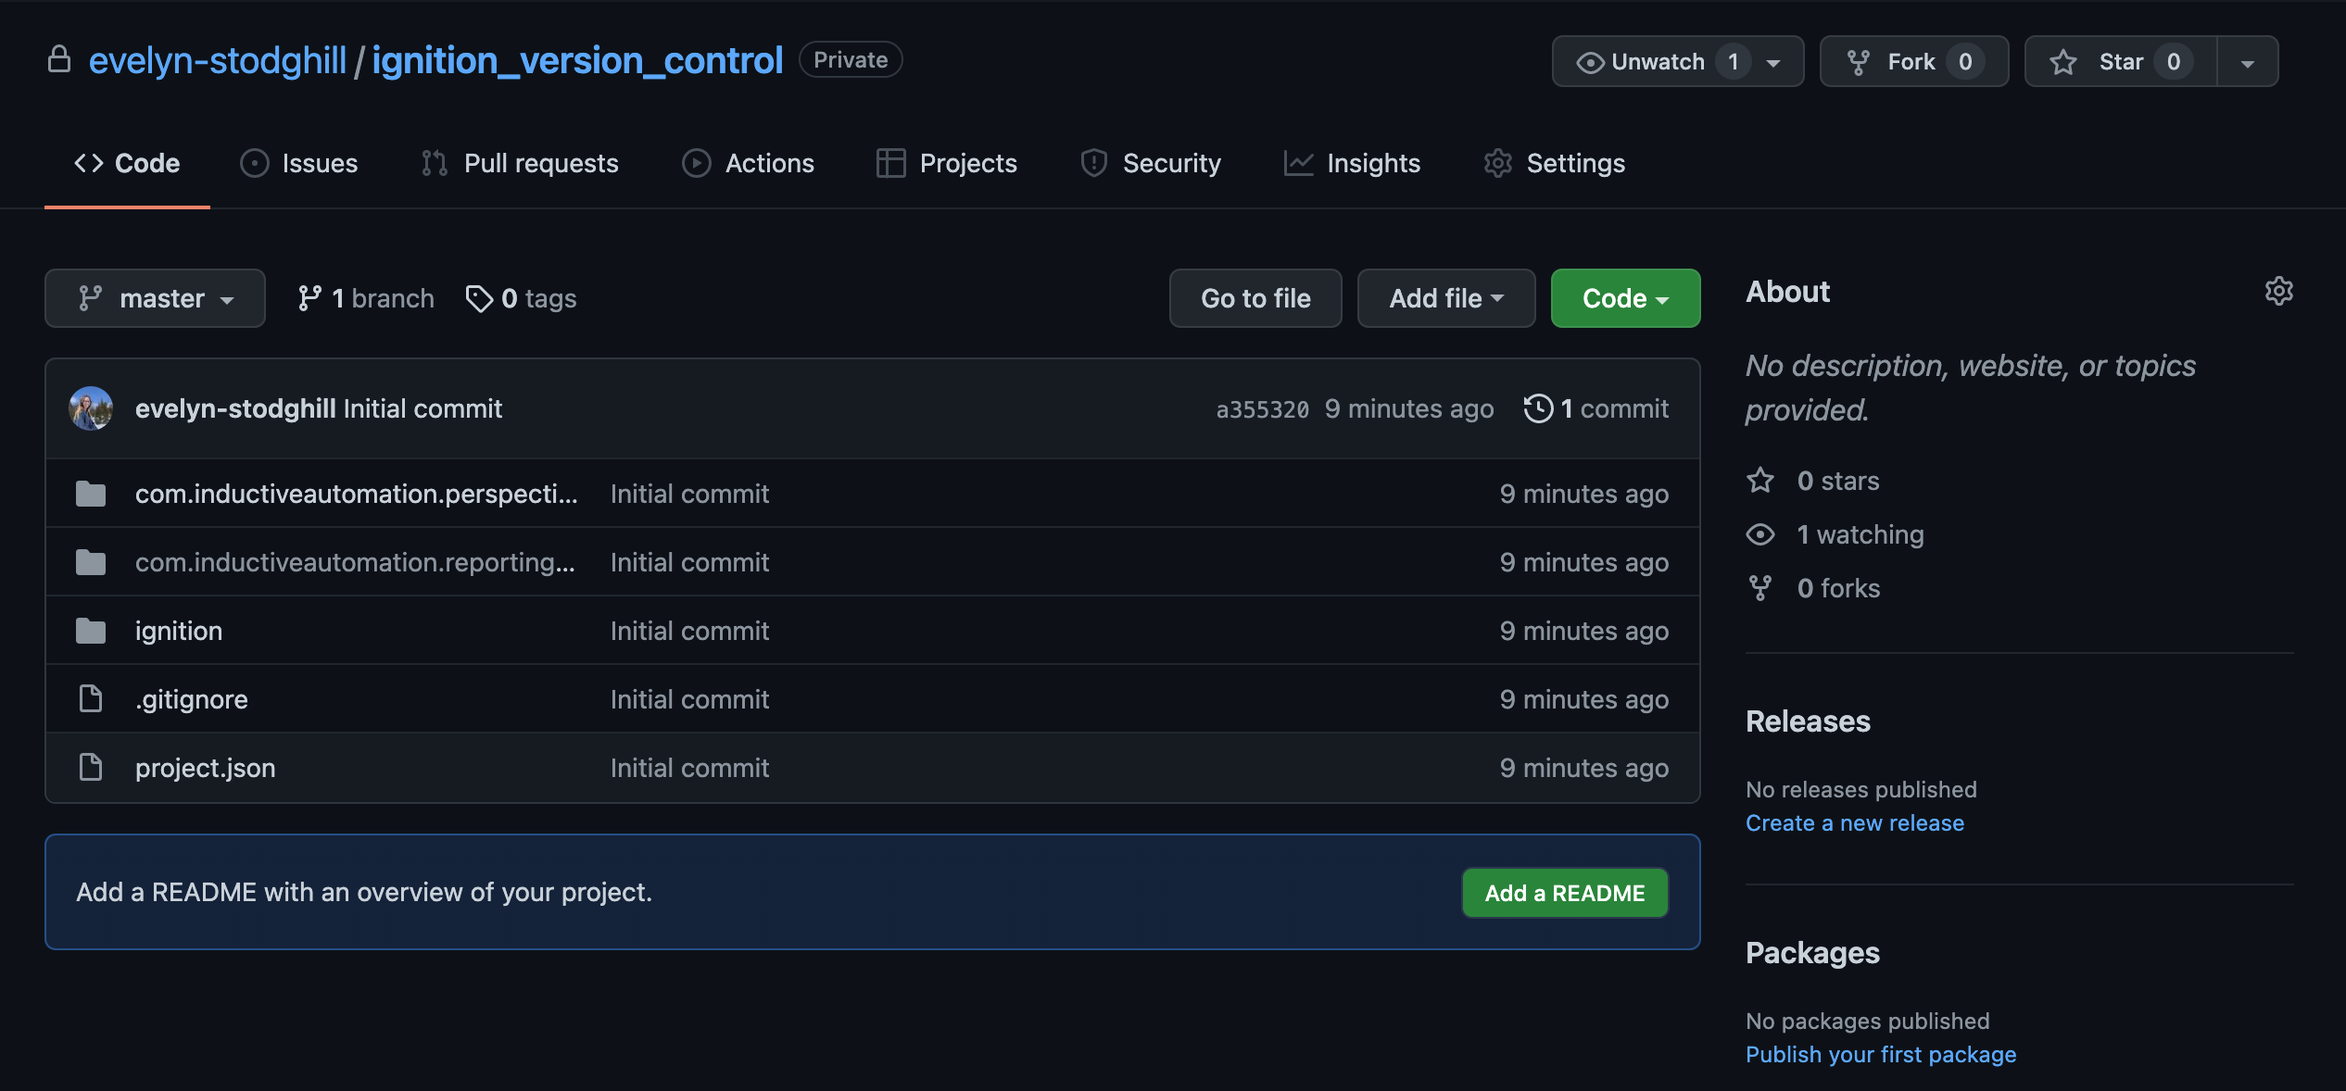
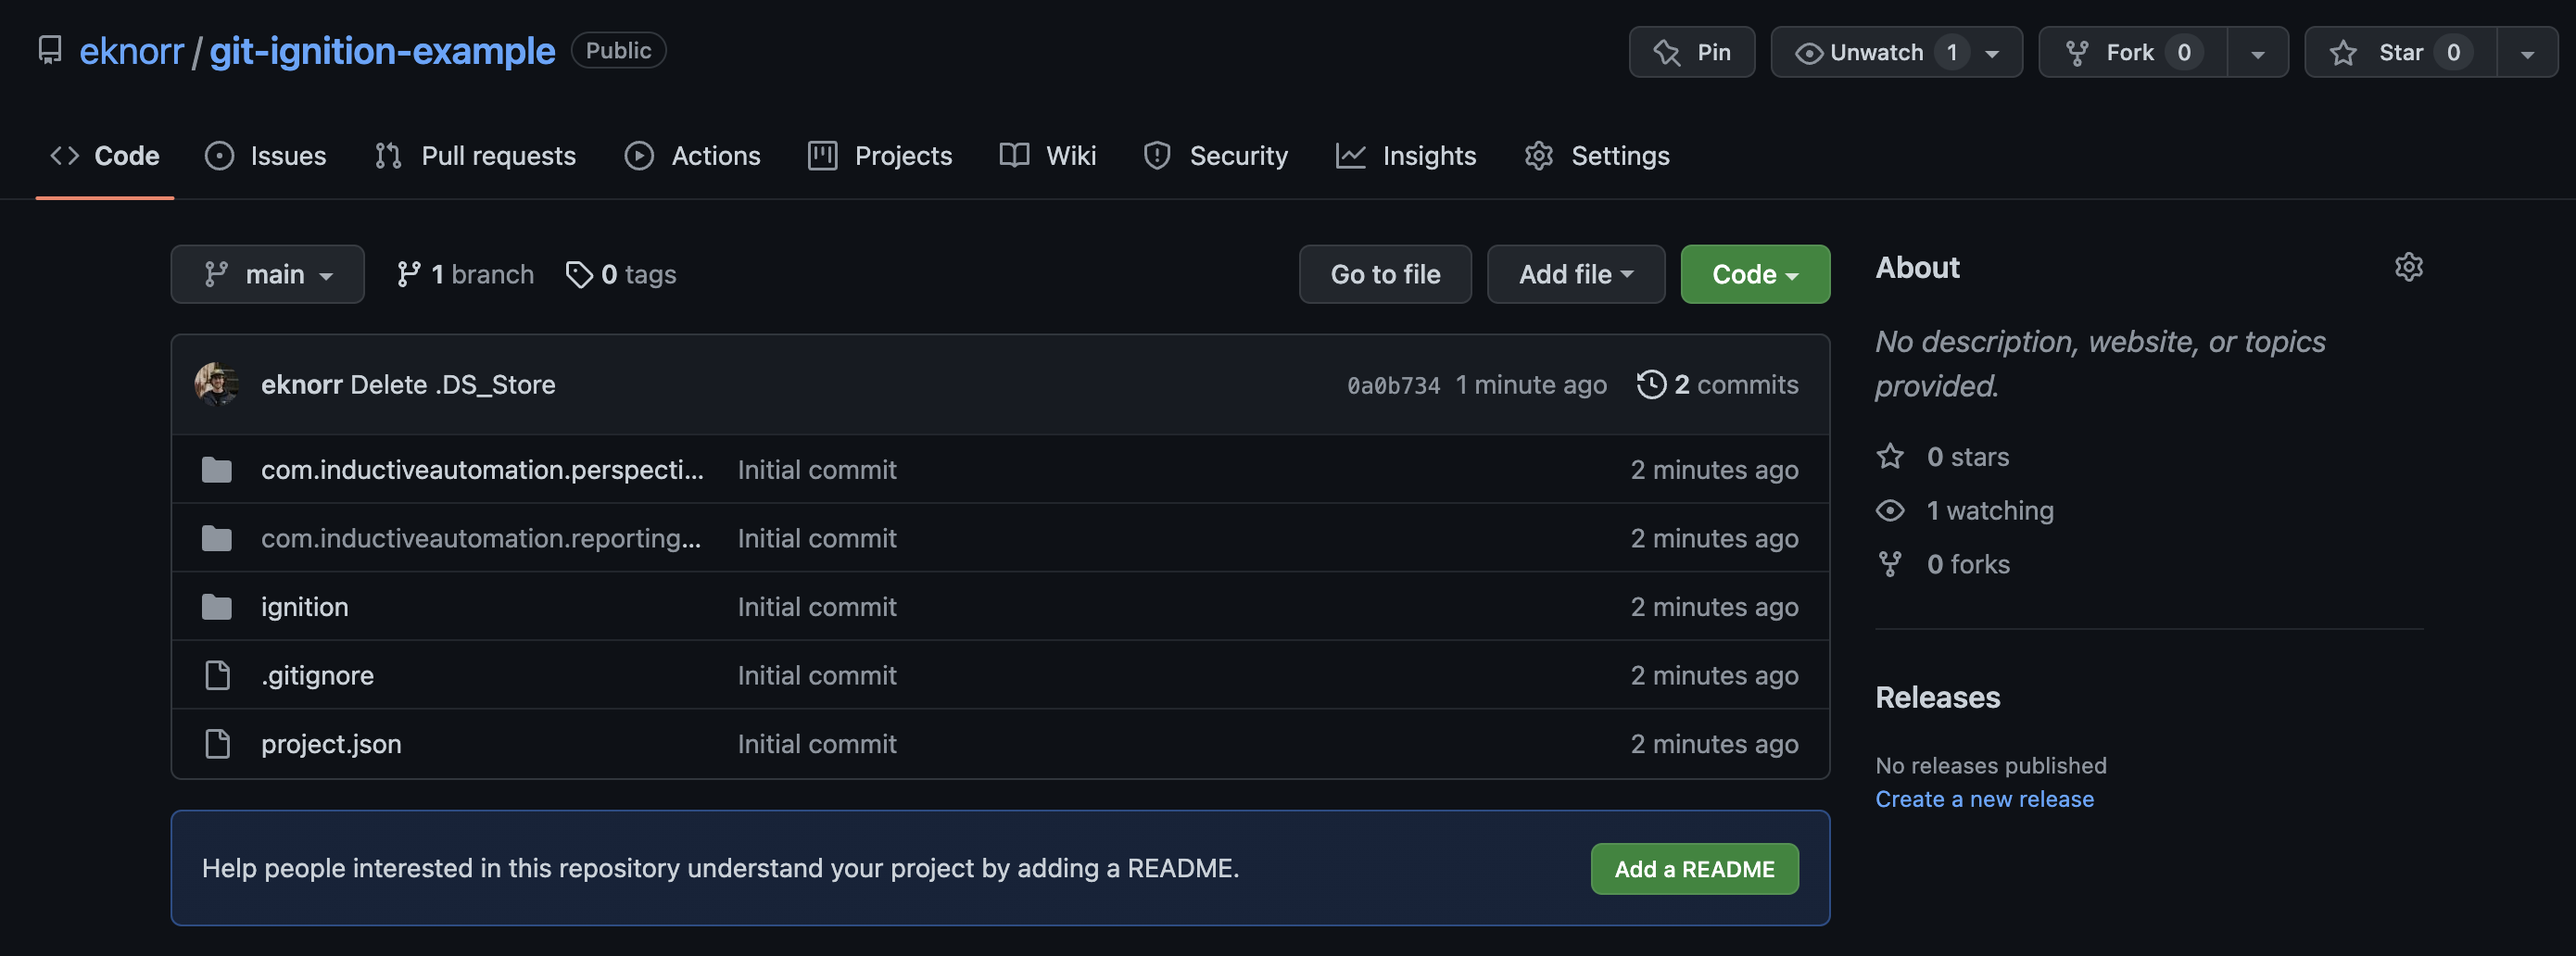
Feature: Ignition Lab pt. 1

diff --git a/Ignition.md b/Ignition.md
@@ -2,106 +2,134 @@
 ## Table of Contents
 - [Ignition Example](#ignition-example)
   - [Table of Contents](#table-of-contents)
-  - [Getting Started](#getting-started)
-    - [Required Tools](#required-tools)
-    - [Recommended Tools](#recommended-tools)
-  - [Initializing Your Repository](#initializing-your-repository)
-  - [About the Commands](#about-the-commands)
-  - [Developing a New Feature](#developing-a-new-feature)
+  - [Purpose](#purpose)
+  - [Before Getting Started](#before-getting-started)
+    - [Required](#required)
+    - [Recommended](#recommended)
+  - [Procedure](#procedure)
+    - [Set up the Ignition Gateway](#set-up-the-ignition-gateway)
+    - [Initialize Repository](#initialize-repository)
+      - [Open the project on Visual Studio Code](#open-the-project-on-visual-studio-code)
+      - [Log in to Github](#log-in-to-github)
+      - [Add .gitignore file](#add-gitignore-file)
+      - [Create a remote repository](#create-a-remote-repository)
+      - [Initialize the local repository](#initialize-the-local-repository)
+  - [Develop a New Feature](#develop-a-new-feature)
   - [How to Submit a Pull Request](#how-to-submit-a-pull-request)
   - [Additional Resources](#additional-resources)
 
-## Getting Started
+## Purpose
+This is a _Getting Started_ tutorial intended for those who are new or newer to Git version control with Ignition. By the end of this tutorial, you should have a basic understanding of how to set up Git with Ignition and the workflow to start tracking your codebase with Git. This is written like a lab, so follow along on your own, use the [IA Ignition Version Control Guide](https://inductive-git.ia.local/eknorr/version-control), and ask [@eknorr](https://inductive-git.ia.local/eknorr) (or on [slack](eknorr@inductiveautomation.com)) for help.
+## Before Getting Started
+  In order to perform version control on Ignition, ensure the following are properly set up or installed:
 
-  In order to perform version control on Ignition, the following are suggested:
+### Required
+  - [Ignition](https://inductiveautomation.com/downloads/)
+    - Either in a Docker container or installed on host
+  - [Git](https://git-scm.com/downloads)
+    - Installed on host
 
-  ### Required Tools
-  - [Ignition](https://inductiveautomation.com/downloads/) must be installed.
-  - [Git](https://git-scm.com/downloads) must be installed.
+### Recommended
+  - [Visual Studio Code](https://code.visualstudio.com/Download)
+    - Highly recommended (VSCode setup guide coming soon!)
+  - [GitHub](https://github.com) access
+    - Log in via [Duo](https://ia.login.duosecurity.com/central/)
+    - Search for "Github Enterprise (on prem)"
+    - If Enterprise github is not available, ask your manager for access, and get started with a personal account for the time being
+      - Do not put any IA material on your personal GitHub account. This is an exception made for training purposes only.
 
-  ### Recommended Tools
-  - [Visual Studio Code](https://code.visualstudio.com/Download) must be installed.
-  - A [GitHub](https://github.com) account must be made with the proper DG credentials. 
+> :bulb: **_FAQ_**: What if I don't have access to the on prem Github Enterprise server yet?
+>
+> Ask your manager for access, and get started with a personal account for the time being. Do not put any IA material on your personal GitHub account. This is an exception made for training purposes only.
 
+## Procedure
+The goal of this exercise is to focus on version control and how it works with Ignition. That said, Ignition Quick Start project will be used as a starting place so there is something to add to a repository and version control. It is good to note that while this guide is used with Quick Start, the procedure is the same with a project where Quick Start isn't used. All references to the Quick Start project can be replaced with your project name. 
 
-## Initializing Your Repository
-
-The goal of this exercise is to focus on version control and how it works with Ignition. That said, we will set up an Ignition Quick Start project so we have something to add to a repository and version control. It is good to note that while this guide is used with Quick Start, the procedure is the same with a project where Quick Start isn't used. All references to the Quick Start project can be replaced with your project name. 
-
-To begin, set up your Ignition gateway. In this example we will use the built in Quick Start project, however this is not required for all implementations. Once this has been done, it is time to initialize your repository. [Here](https://docs.inductiveautomation.com/display/DOC80/Quick+Start+Guide) is a guide to the Ignition Quick Start if needed. Below includes and image of what is to be expected when first starting the ignition Gateway. Make sure to select "Yes, Enable Quick Start"
+### Set up the Ignition Gateway
+1. Commission and start the Ignition Gateway
+2. After commissioning, select "Yes, Enable Quick Start"
+   1. Naturally, this is not required for all implementations
+   2. [Here](https://docs.inductiveautomation.com/display/DOC80/Quick+Start+Guide) is a guide to the Ignition Quick Start if needed
 
 ![Gateway Startup Page](images/IgnitionQuickStart.png)
 
-- Open VS Code and navigate to the project directory. The path file should look like: `../data/projects/quickstart`
-  - This can be done by selecting `File/Open..` and navigating to the Ignition project (The default location is `C://Program Files Inductive Automation/Ignition`)
-  - Using the `EXPLORER` tab in VS Code, right click the project and select `Open in Integrated Terminal`.
-  - Within the terminal, verify you are in the correct directory by typing the command `pwd` (`P`rint `W`orking `D`irectory). This directory should be within the project name, `samplequickstart`.
-    - For Mac the directory should be: `/usr/local/ignition/data/projects/samplequickstart`
-    - For Windows the directory should be: `C://Program Files Inductive Automation/Ignition/data/projects/samplequickstart`
-- Once there, ensure you are properly logged in to github or your desired remote repo.
-  - In the terminal, add these commands with your information. 
-  - :memo: **Note** If you are having trouble with your GitHub credentials, please refer to [this](https://github.com/design-group/version-control) document. 
+### Initialize Repository 
+#### Open the project on Visual Studio Code
+1. Open VS Code and navigate to the project directory
+   1. Select `File/Open...` and open the Ignition project
+      1. Ex: `<ignition-install-path>/data/projects/quickstart`
+2. In the VS Code `EXPLORER` tab, right click the project and select `Open in Integrated Terminal`
+![Integrated Terminal](images/integrated_terminal.png)
+   1. Within the terminal, verify you are in the correct directory by typing the command `pwd` (`P`rint `W`orking `D`irectory). This directory should be within the project name, `samplequickstart`.
+      - For Mac the directory should be: `/usr/local/ignition/data/projects/samplequickstart`
+      - For Windows the directory should be: `C://Program Files Inductive Automation/Ignition/data/projects/samplequickstart`
+#### Log in to Github
+Login to Github with the integrated terminal by running the following commands:
 
-```
+```shell
 git config --global user.name "YourUserName"
-```
-```
+
 git config --global user.email "your@email.addr"
 ```
-- Add an ignore file.
-  - Within the top level directory of your repository, create a file named `.gitignore`.
-  - Add the following to the file.
-   ```python
-  # Ignition Resource Content
-  ./resources/
-   ```
-   - This will ignore all of Ignition's resource files. While this example is Ignition specific, it is also possible to ignore any other type of file that shouldn't be tracked. You may want to also exclude:
-     - `com.inductiveautomation.vision/`: if your project does not use vision, it is not needed.
-     - `DS_Store`: if using a Mac, the `DS_Store` file contains your viewing preferences.
-     - `*.code-workspace`: This will ignore your workspace files if using VS Code.
-     - `.vscode/`: if using VS Code, this will ignore files created by VS Code.
-     - `__pycache__/`, `.jython_cache`  and `.pytest_cache`: can be used to ignore caches made by python, jython and pytest.
-     - `*.pyc`: will ignore the compiled byte code python files.
-  - The intention of this file is to tell git what not to track. In other words, git will **not** keep these files in the repository or track changes made to these files. These files will still exist on the gateway, and will not be removed, just will not be version controlled.
-- Save the file.
-- Make your repository.
-  - In the GitHub web browser, navigate to your profile and select "Repositories". The page should look like this:
-  ![Profile Repositories](images/empty_repo.png)
-  - Select the green "New" button in the right hand corner.
-  - Decide on what you want to call your repository. Make sure it is relevant to the project. Feel free to set the repository to private.
- ![Repository Setup](images/repo_setup.png)
-  - Select the "Create repository".
-- Now it is time to initialize the repository. Execute the following commands in the terminal:
-```sh
-git init
-git remote add origin <Your version control repository link>
-git add .
-git commit -m "Initial commit"
-git push -u origin master
-```
 
-## About the Commands
+#### Add .gitignore file
+1. At the top level of your directory, create and save a file named `.gitignore` with the following code:
+    ```python
+    # Ignition Resource Content
+    ./resources/
+    ```
+    ![gitignore](images/gitignore.png)
+   -  This will ignore all of Ignition's resource files, which frequently change and do not need to be version controlled
+
+> :memo: **_Note_**: .gitignore files are very useful - it specifies intentionally untracked files that Git should ignore. These files will still exist on the gateway, and will not be removed, just will not be version controlled.
+> 
+> Although this example is Ignition specific, it is also possible to ignore any other type of file that shouldn't be tracked. You may want to also exclude:
+>
+> - `com.inductiveautomation.vision/`: if your project does not use vision, it is not needed.
+> - `DS_Store`: if using a Mac, the `DS_Store` file contains your viewing preferences.
+> - `*.code-workspace`: This will ignore your workspace files if using VS Code.
+> - `.vscode/`: if using VS Code, this will ignore files created by VS Code.
+> - `__pycache__/`, `.jython_cache`  and `.pytest_cache`: can be used to ignore caches made by python, jython and pytest.
+> - `*.pyc`: will ignore the compiled byte code python files.
+
+#### Create a remote repository
+1. In the upper-right corner of any page on the GitHub web browser, use the  drop-down menu, and select New repository
+2. Type a short, descriptive name for the new repository. 
+   1. See the [IA Git Style Guide](https://inductive-git.ia.local/eknorr/git-style-guide#repository-setup-1) for help naming your repo
+3. Select the "Create repository"
+
+#### Initialize the local repository
+1. Run the following commands in the integrated terminal:
+    ```shell
+    git init .
+    git remote add origin <Your version control repository link>
+    git add .
+    git commit -m "Initial commit"
+    git push -u origin master
+    ```
+2. About the commands:
 - `git init`: 
   - `init` initializes the repository.
 - `git remote add origin <Repository Link>`: 
   - `remote add` refers to adding a location where the work is stored. In this case, it is held remotely on GitHub.
   - `origin` is an alias for a particular repository. In this case, the link you have added.
-  - `<Repository Link>` is the repository which will be herein referred to as `origin`. The link to your repository is is a combination of the github url, your username (or the organization the repo is made under), and the name of your repository. In the example, the url is: `https://github.com/evelyn-stodghill/ignition_version_control`.
+  - `<Repository Link>` is the repository which will be herein referred to as `origin`. The link to your repository is is a combination of the github url, your username (or the organization the repo is made under), and the name of your repository. In the example, the url is: `https://inductive-git.ia.local/eknorr/git-ignition-example`.
 - `git add .`:
-  - `add .` adds the work you have done in the current directory to the staging area. Because the repository has no previous commits, this will be many Ignition files. The `.` is used to denote the entire contents of the directory you are working in.
+  - `add .` adds the work you have done in the current directory to the staging area. Because the repository has no previous commits, this will be many Ignition files. The `.` is used to chose all changed files of the directory you are working in.
 - `git commit -m "Initial commit"`:
   - `commit` is the command for committing your work. A commit is good to do regularly, it allows for going back to the exact state of your work at the time of the commit.
   - `-m "Initial commit"` adds a message to the commit. In this case, the message is "Initial commit". It is important to be specific when writing the messages as it becomes difficult to remember what each commit was for and can be confusing if there was ever a need to rollback to a specific commit.
   - Without the `-m` it will open a text editor with a file that you can type the message into.
-- `git push origin master` allows for pushing all of the commits to the remote master.
+- `git push origin main` allows for pushing all of the commits to the remote master.
 
 
-- You have just made your GitHub repository. To verify, you can go to your GitHub account and see the new repository. Below is what should be visible on Github:
+You have just made and initialized a GitHub repository. To verify, you can go to your GitHub account and see the new repository. Below is an example
 
 ![Initial Commit on Repo](images/initial_commit.png)
 
-## Developing a New Feature
-Now that the repository has been initialized, it's time to add a new feature. To add and version control the new feature, follow the directions below.
+---
+## Develop a New Feature
+Now that the repository has been initialized, it's time to add a new feature. 
 
 - Create a new branch by typing this in the terminal: ```git checkout -b new_feature```.
   - The `checkout` command allows for navigating to a branch. This command can also be used switching to another branch. For example, to get to the master branch the command is ```git checkout master```.
